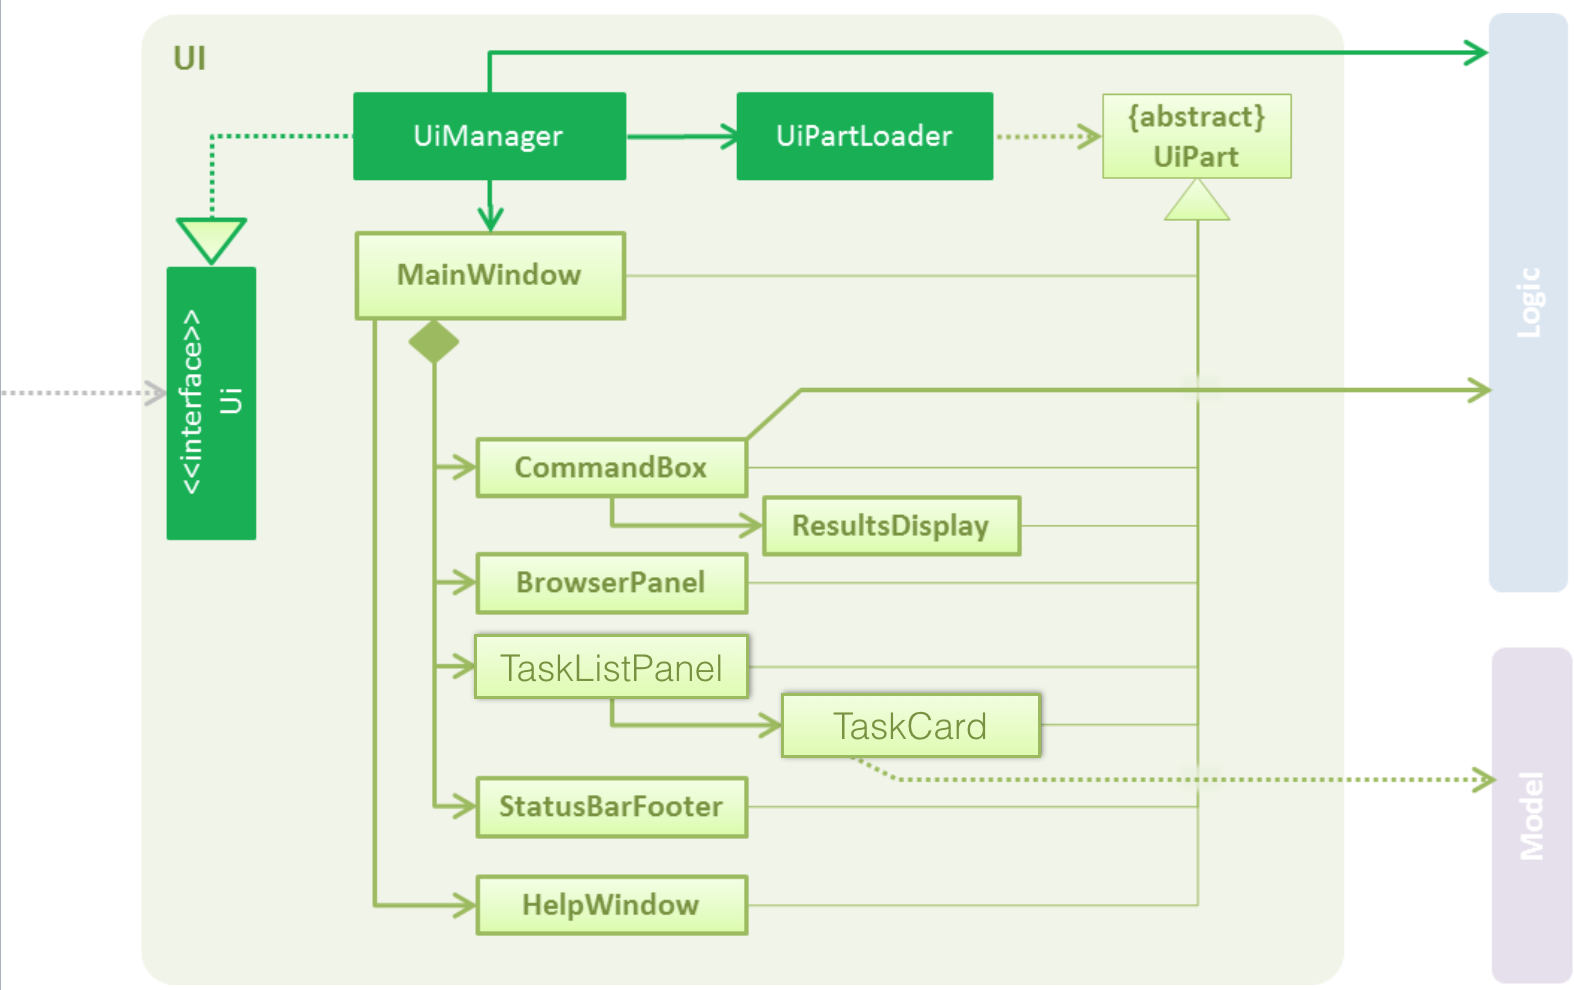
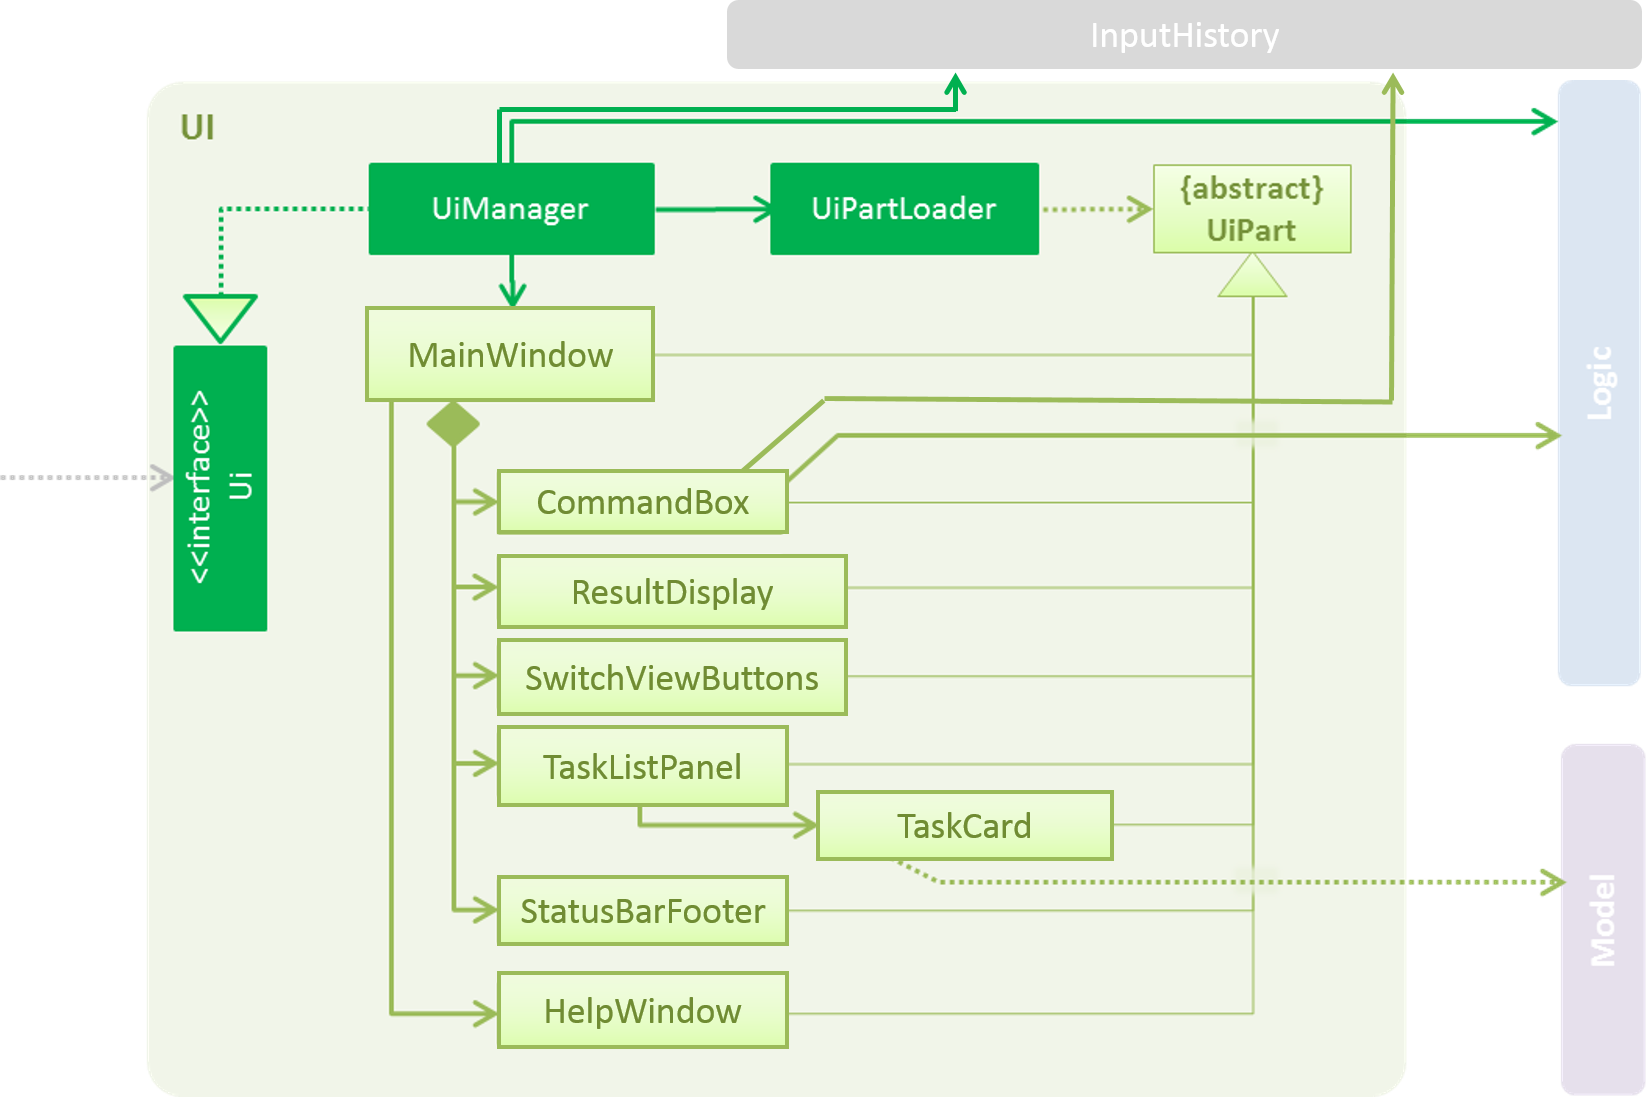
Add new ui diagram

diff --git a/src/main/java/seedu/address/ui/UiManager.java b/src/main/java/seedu/address/ui/UiManager.java
@@ -14,11 +14,9 @@ import seedu.address.commons.events.storage.DataSavingExceptionEvent;
 import seedu.address.commons.events.ui.ChangeToListDoneViewEvent;
 import seedu.address.commons.events.ui.ChangeToListUndoneViewEvent;
 import seedu.address.commons.events.ui.JumpToListRequestEvent;
-import seedu.address.commons.events.ui.PersonPanelSelectionChangedEvent;
 import seedu.address.commons.events.ui.ShowHelpRequestEvent;
 import seedu.address.commons.events.ui.SwapTaskListEvent;
 import seedu.address.commons.util.StringUtil;
-import seedu.address.history.UndoableCommandHistoryManager;
 import seedu.address.history.InputHistory;
 import seedu.address.logic.Logic;
 import seedu.address.model.UserPrefs;

diff --git a/docs/DeveloperGuide.md b/docs/DeveloperGuide.md
@@ -117,7 +117,7 @@ being saved to the hard disk and the status bar of the UI being updated to refle
   coupling between components.
 
 The sections below give more details of each component.
-
+<!-- @@author A0093960X -->
 ### UI component
 
 <img src="images/UiClassDiagram.png" width="800"><br>
@@ -125,8 +125,7 @@ The sections below give more details of each component.
 
 **API** : [`Ui.java`](../src/main/java/seedu/address/ui/Ui.java)
 
-The UI consists of a `MainWindow` that is made up of parts e.g.`CommandBox`, `ResultsDisplay`, `TaskListPanel`,
-`StatusBarFooter`, `BrowserPanel` etc. All these, including the `MainWindow`, inherit from the abstract `UiPart` class
+The UI consists of a `MainWindow` that is made up of parts e.g.`CommandBox`, `ResultsDisplay`, `TaskListPanel`, `TaskCard`, `SwitchViewButtons`, `StatusBarFooter`, etc. All these, including the `MainWindow`, inherit from the abstract `UiPart` class
 and they can be loaded using the `UiPartLoader`.
 
 The `UI` component uses JavaFx UI framework. The layouts of these UI parts are defined in matching `.fxml` files
@@ -138,7 +137,7 @@ The `UI` component,
 * Executes user commands using the `Logic` component.
 * Binds itself to some data in the `Model` so that the UI can auto-update when data in the `Model` change.
 * Responds to events raised from various parts of the App and updates the UI accordingly.
-
+<!-- @@author -->
 <!-- @@author A0139655U -->
 ### Logic component
 
